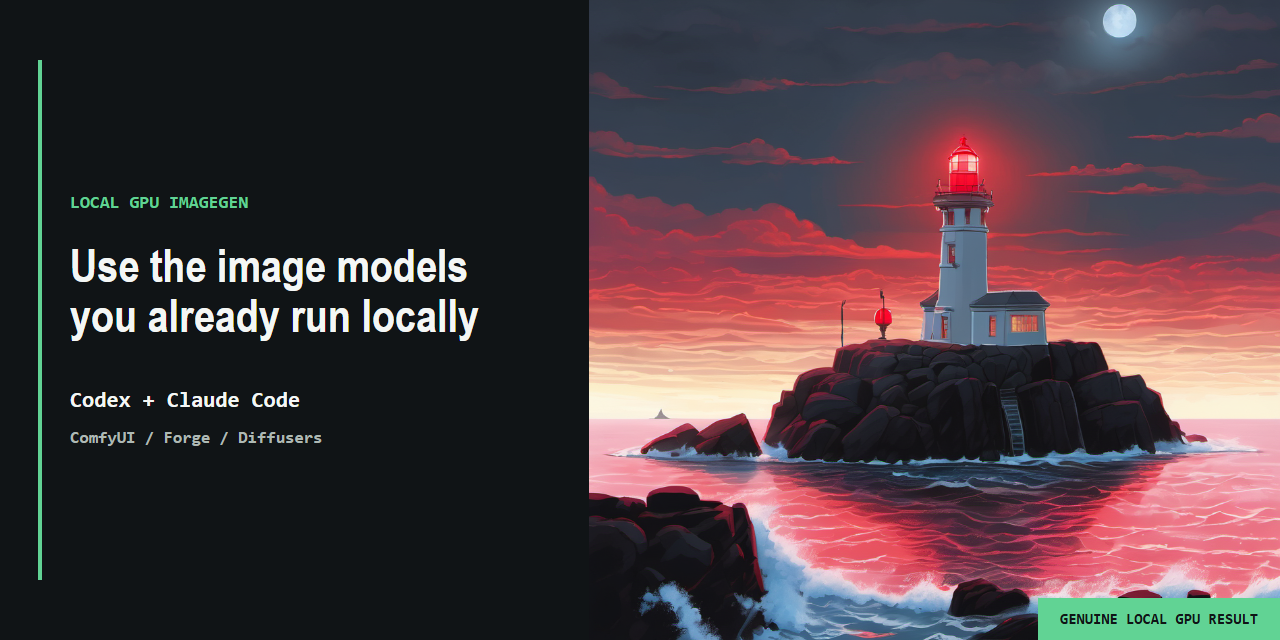
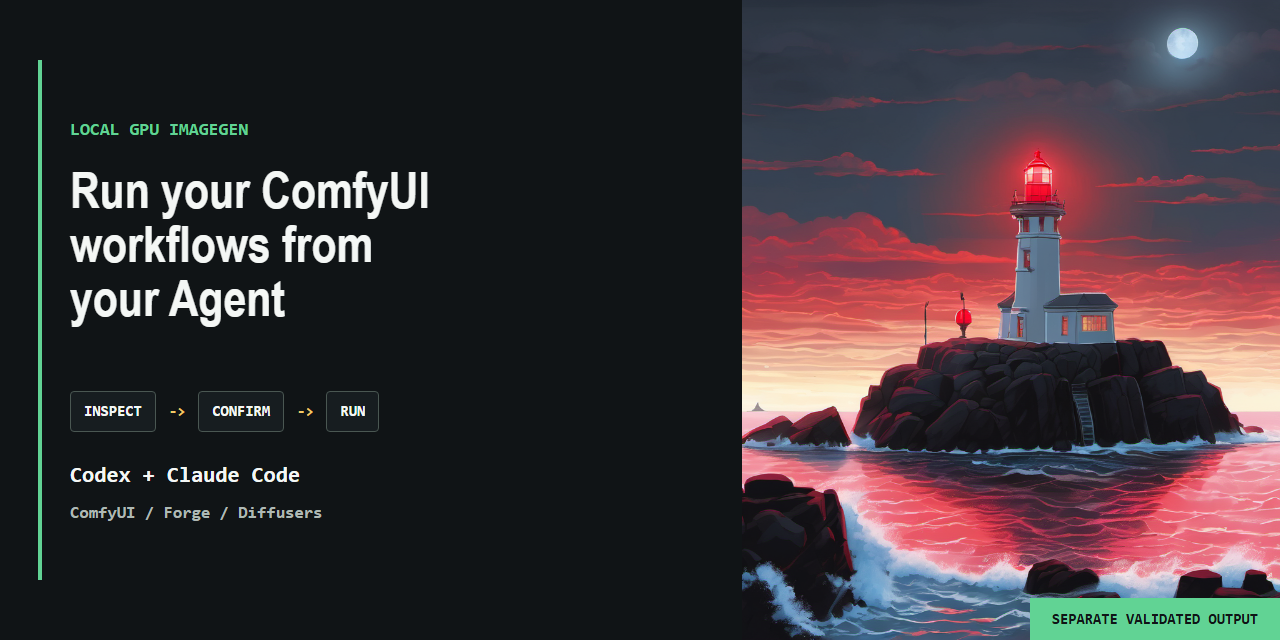
docs: prepare agent workflow launch preview

diff --git a/docs/assets/github-social-preview.html b/docs/assets/github-social-preview.html
@@ -20,7 +20,7 @@
 
     #preview {
       display: grid;
-      grid-template-columns: 46% 54%;
+      grid-template-columns: 58% 42%;
       width: 1280px;
       height: 640px;
       color: #f4f7f5;
@@ -33,7 +33,7 @@
       flex-direction: column;
       justify-content: center;
       min-width: 0;
-      padding: 58px 54px 58px 70px;
+      padding: 52px 58px 50px 70px;
     }
 
     .message::before {
@@ -56,17 +56,17 @@
     }
 
     .label {
-      margin-bottom: 28px;
+      margin-bottom: 22px;
       color: #61d394;
       font-size: 18px;
       line-height: 1.2;
     }
 
     h1 {
-      max-width: 470px;
-      margin: 0 0 46px;
+      max-width: 600px;
+      margin: 0 0 32px;
       font-family: "Arial Narrow", "Aptos Narrow", "Segoe UI", sans-serif;
-      font-size: 46px;
+      font-size: 50px;
       font-stretch: condensed;
       font-weight: 700;
       line-height: 1.08;
@@ -83,6 +83,29 @@
       color: #aeb9b4;
       font-size: 17px;
       line-height: 1.3;
+    }
+
+    .flow {
+      display: flex;
+      align-items: center;
+      gap: 13px;
+      margin: 34px 0 30px;
+      color: #f4f7f5;
+      font-family: Consolas, "Courier New", monospace;
+      font-size: 15px;
+      font-weight: 700;
+      line-height: 1;
+    }
+
+    .step {
+      padding: 12px 13px;
+      border: 1px solid #4a5752;
+      border-radius: 4px;
+      background: #171d20;
+    }
+
+    .arrow {
+      color: #f3c969;
     }
 
     figure {
@@ -121,13 +144,20 @@
   <main id="preview" aria-label="Local GPU Imagegen social preview">
     <section class="message">
       <p class="label">LOCAL GPU IMAGEGEN</p>
-      <h1 aria-label="Use the image models you already run locally">Use the image models<br>you already run locally</h1>
+      <h1 aria-label="Run your ComfyUI workflows from your Agent">Run your ComfyUI<br>workflows from<br>your Agent</h1>
+      <div class="flow" aria-label="Inspect, confirm, and run">
+        <span class="step">INSPECT</span>
+        <span class="arrow">-&gt;</span>
+        <span class="step">CONFIRM</span>
+        <span class="arrow">-&gt;</span>
+        <span class="step">RUN</span>
+      </div>
       <p class="clients">Codex + Claude Code</p>
       <p class="backends">ComfyUI / Forge / Diffusers</p>
     </section>
     <figure>
       <img src="../demo/real/final.png" alt="Validated lighthouse generation">
-      <figcaption>GENUINE LOCAL GPU RESULT</figcaption>
+      <figcaption>SEPARATE VALIDATED OUTPUT</figcaption>
     </figure>
   </main>
 </body>

diff --git a/scripts/validate_social_preview.py b/scripts/validate_social_preview.py
@@ -20,7 +20,7 @@ MANIFEST_FIELDS = {
 }
 REQUIRED_COPY = (
     "Local GPU Imagegen",
-    "Use the image models you already run locally",
+    "Run your ComfyUI workflows from your Agent",
     "Codex + Claude Code",
     "ComfyUI / Forge / Diffusers",
     "../demo/real/final.png",

diff --git a/docs/superpowers/plans/2026-07-26-agent-runner-launch.md b/docs/superpowers/plans/2026-07-26-agent-runner-launch.md
@@ -338,6 +338,7 @@ git commit -m "docs: reject semantic drift in visual review"
 - Modify: `docs/assets/github-social-preview.html`
 - Modify generated: `docs/assets/github-social-preview.png`
 - Modify generated: `docs/assets/github-social-preview.json`
+- Modify: `scripts/validate_social_preview.py`
 - Modify: `PROJECT_NODES.md`
 - Modify: `NEXT_SESSION.md`
 
